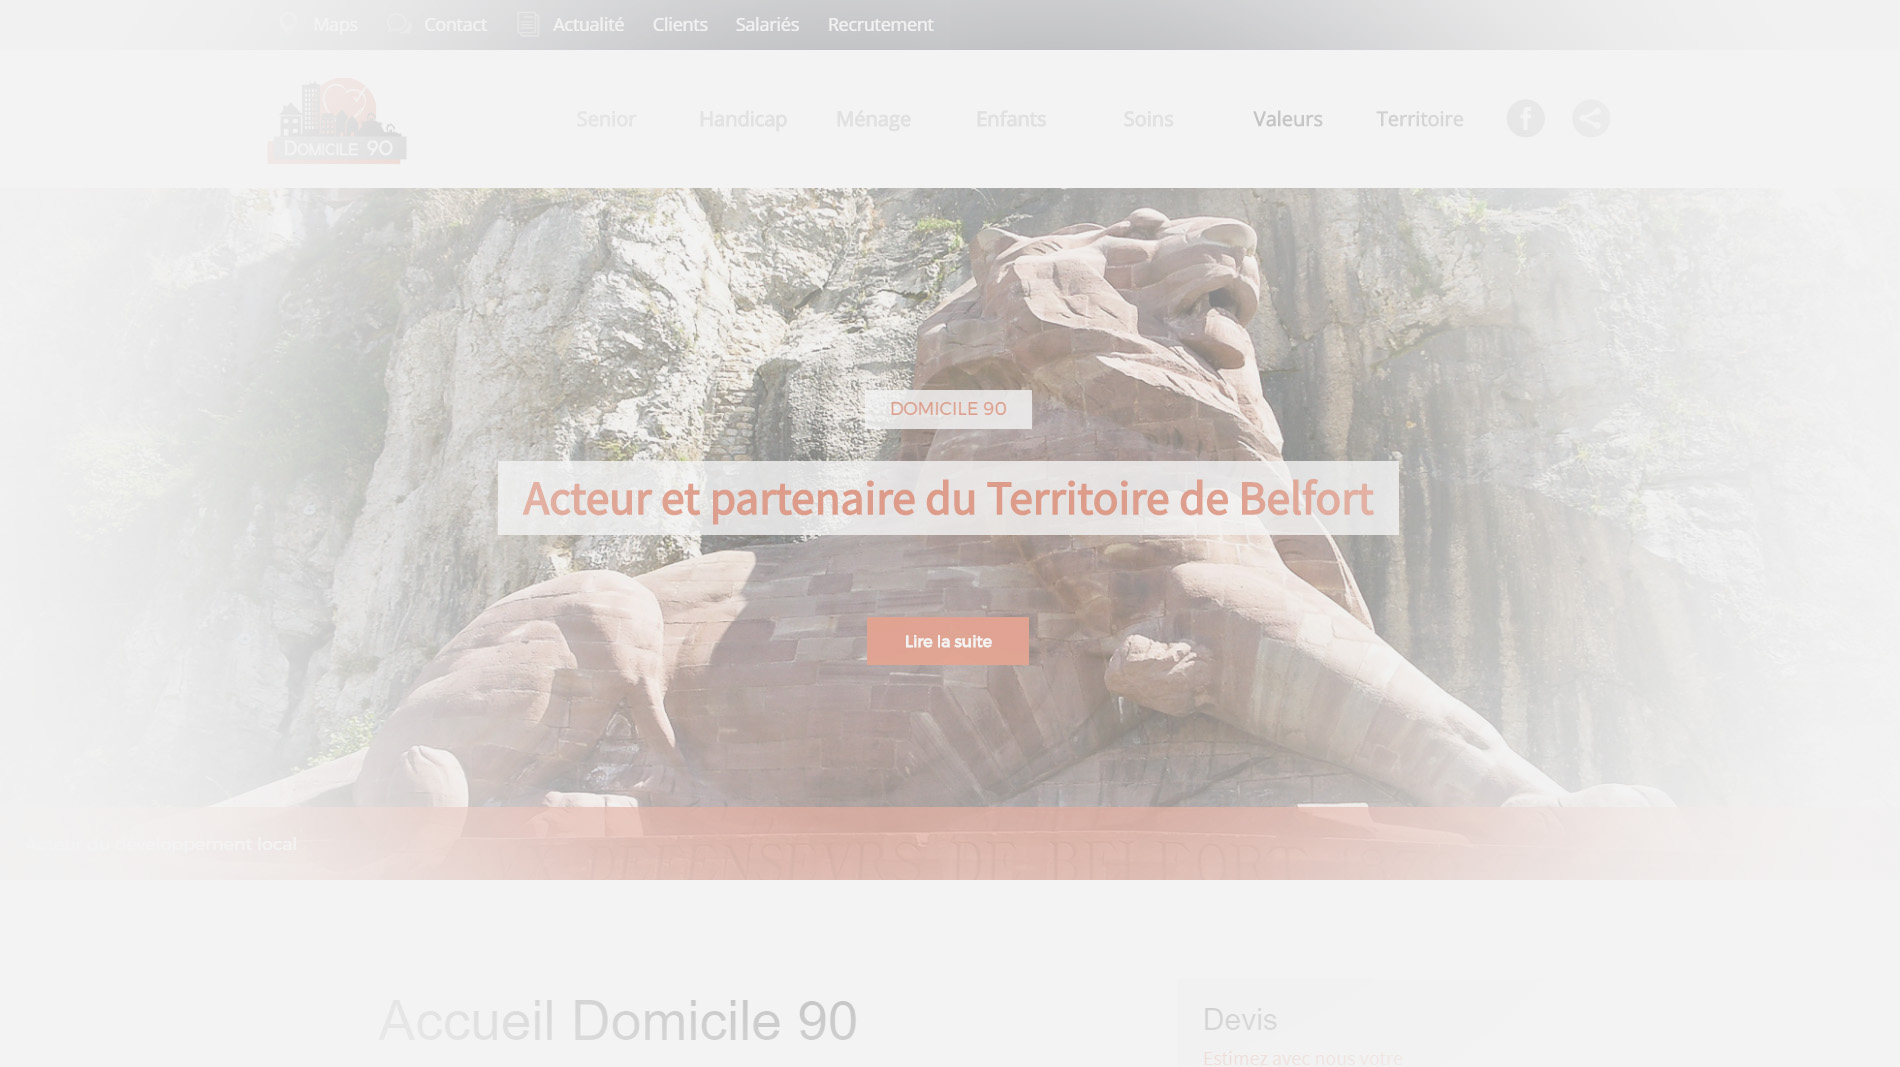
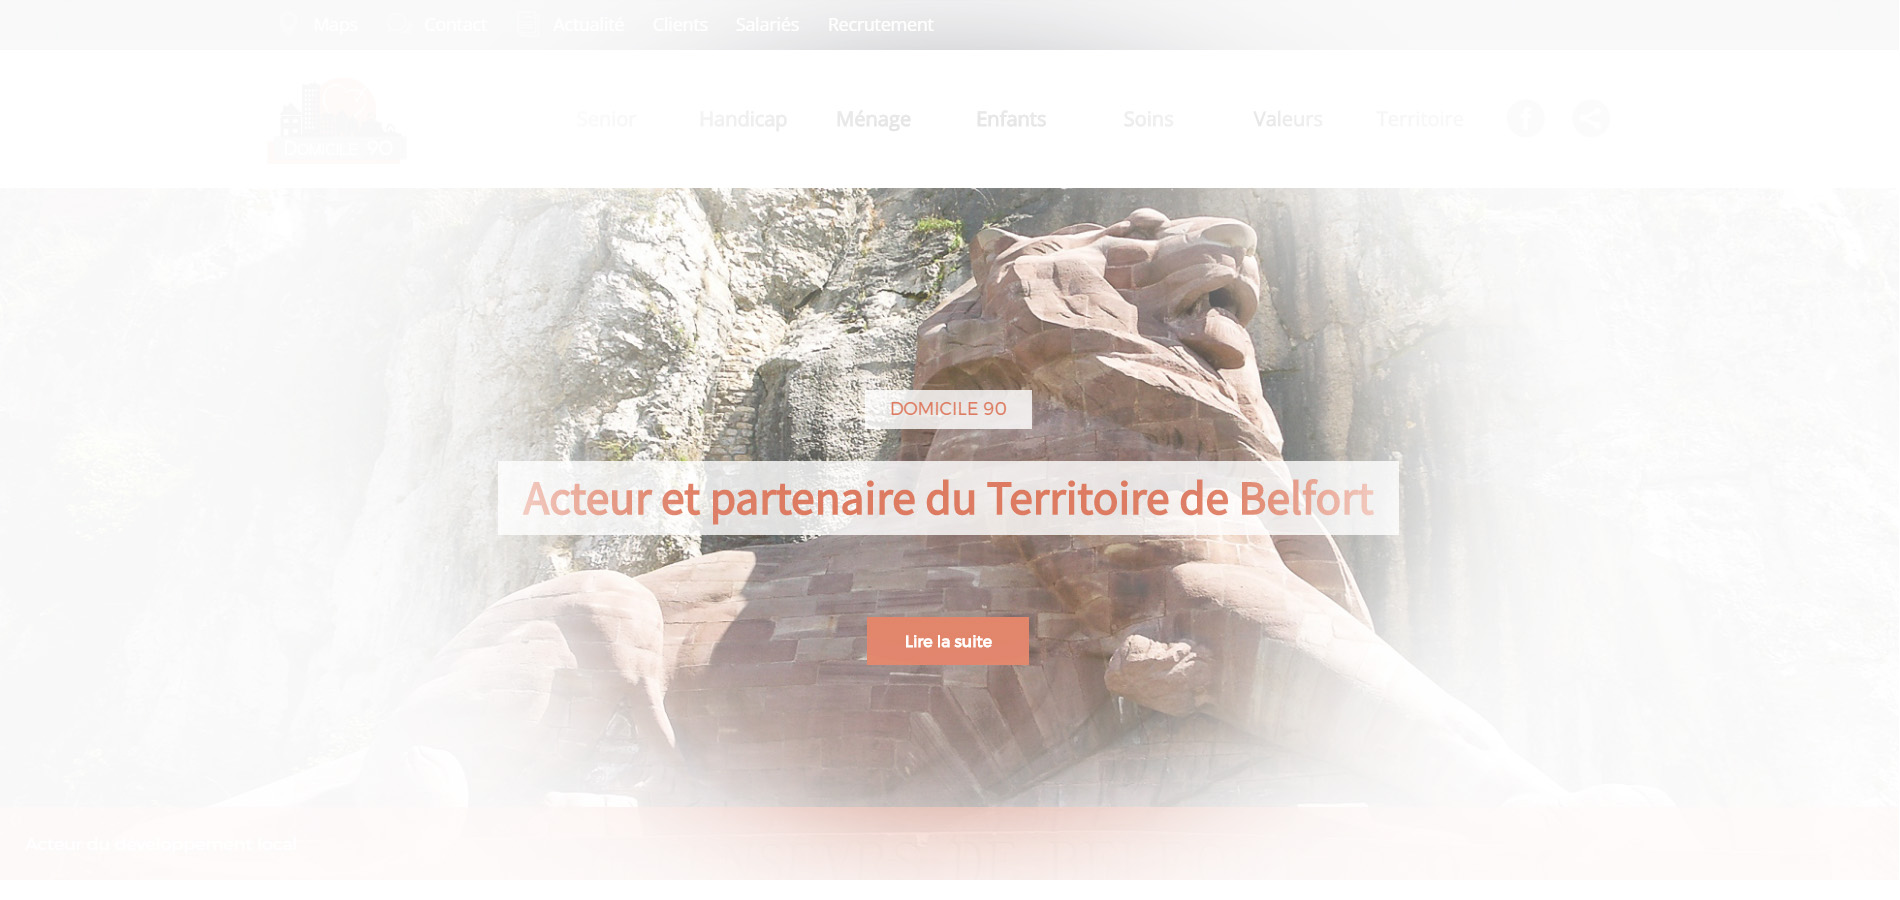
Slideshow optimization

diff --git a/prj/scss/style.min.css b/prj/scss/style.min.css
@@ -1,1 +1,1 @@
-@font-face{font-family:Gilroy;src:url("../../fonts/Gilroy.otf") format("opentype");}@font-face{font-family:GilroyBold;font-weight:bold;src:url("../../fonts/GilroyBold.otf") format("opentype");}body,html{height:100%;background:#110101;font-family:'Roboto',sans-serif;overflow:hidden;}.slideshow{position:absolute;z-index:1;top:0;left:0;width:100vw;height:100vh;overflow:hidden;}.slideshow .slider{width:100vw;height:100vw;z-index:2;}.slideshow .slider *{outline:none;}.slideshow .slider .item{height:100vh;width:100vw;position:relative;overflow:hidden;border:none;}.slideshow .slider .item .text{display:none;}.slideshow .slider .item img{min-width:101%;min-height:101%;position:absolute;top:50%;left:50%;transform:translate(-50%,-50%);}.slideshow .slick-dots{position:fixed;z-index:100;width:40px;height:auto;bottom:auto;top:50%;top:40px;right:0;transform:translateY(-50%);left:auto;color:#fff;display:block;margin:12px;}.slideshow .slick-dots li{display:block;width:100%;height:auto;}.slideshow .slick-dots li button{position:relative;width:20px;height:15px;text-align:center;}.slideshow .slick-dots li button:before{content:'';background:-webkit-linear-gradient(left top,#517bfc,#8728fe);color:#fff;height:5px !important;width:20px;border-radius:5px !important;position:absolute;top:50%;right:0;left:auto;transform:translateY(-50%);transition:all .3s ease-in-out;opacity:.6;}.slideshow .slick-dots li.slick-active button:before{width:40px;opacity:1;}.slideshow.slideshow-right{left:0;z-index:1;width:50vw;pointer-events:none;}.slideshow.slideshow-right .slider{left:0;position:absolute;}.slideshow-text{font-size:60px;width:100vw;font-family:"Gilroy",Roboto,Arial,sans-serif;font-weight:100;pointer-events:none;text-transform:uppercase;letter-spacing:14px;line-height:.8;position:fixed;z-index:99;height:unset;bottom:auto;top:0;margin:0 !important;padding:0 !important;margin-left:24px !important;text-align:start;}@media screen and (min-width:780px){.slideshow-text{margin-top:-24px !important;}}@media(max-width:780px){.slideshow-text{font-size:24px;font-family:"GilroyBold",Roboto,Arial,sans-serif;}}p{background:-webkit-linear-gradient(left top,#517bfc,#8728fe);-webkit-background-clip:text;-webkit-text-fill-color:transparent;}@media screen and (max-width:720px){img{filter:blur(5px);}}
+@font-face{font-family:Gilroy;src:url("../../fonts/Gilroy.otf") format("opentype");}@font-face{font-family:GilroyBold;font-weight:bold;src:url("../../fonts/GilroyBold.otf") format("opentype");}body,html{height:100%;background:#110101;font-family:'Roboto',sans-serif;overflow:hidden;}.slideshow{position:absolute;z-index:1;top:0;left:0;width:100vw;height:100vh;overflow:hidden;}.slideshow .slider{width:100vw;height:100vw;z-index:2;}.slideshow .slider *{outline:none;}.slideshow .slider .item{height:100vh;width:100vw;position:relative;overflow:hidden;border:none;}.slideshow .slider .item .text{display:none;}.slideshow .slider .item img{min-width:101%;min-height:101%;position:absolute;top:50%;left:50%;transform:translate(-50%,-50%);}.slideshow .slick-dots{position:fixed;z-index:100;width:40px;height:auto;bottom:auto;top:50%;top:40px;right:0;transform:translateY(-50%);left:auto;color:#fff;display:block;margin:12px;}.slideshow .slick-dots li{display:block;width:100%;height:auto;}.slideshow .slick-dots li button{position:relative;width:20px;height:15px;text-align:center;}.slideshow .slick-dots li button:before{content:'';background:-webkit-linear-gradient(left top,#517bfc,#8728fe);color:#fff;height:5px !important;width:20px;border-radius:5px !important;position:absolute;top:50%;right:0;left:auto;transform:translateY(-50%);transition:all .3s ease-in-out;opacity:.6;}.slideshow .slick-dots li.slick-active button:before{width:40px;opacity:1;}.slideshow.slideshow-right{left:0;z-index:1;width:50vw;pointer-events:none;}.slideshow.slideshow-right .slider{left:0;position:absolute;}.slideshow-text{font-size:60px;width:100vw;font-family:"Gilroy",Roboto,Arial,sans-serif;font-weight:100;pointer-events:none;text-transform:uppercase;letter-spacing:14px;line-height:.8;position:fixed;z-index:99;height:unset;bottom:auto;top:-8px;margin:0 !important;padding:0 !important;margin-left:24px !important;text-align:start;}@media screen and (min-width:780px){.slideshow-text{margin-top:-24px !important;}}@media(max-width:780px){.slideshow-text{top:2px;font-size:22px;font-family:"GilroyBold",Roboto,Arial,sans-serif;}}@media(max-width:320px){.slideshow-text{top:8px;font-size:18px;}}p{background:-webkit-linear-gradient(left top,#517bfc,#8728fe);-webkit-background-clip:text;-webkit-text-fill-color:transparent;}@media screen and (max-width:720px){.slideshow .slider .item img{top:20%;left:22.5%;transform:translate(-25%,-25%);}}

diff --git a/prj/scss/style.css b/prj/scss/style.css
@@ -106,7 +106,7 @@ html {
   z-index: 99;
   height: unset;
   bottom: auto;
-  top: 0;
+  top: -8px;
   margin: 0 !important;
   padding: 0 !important;
   margin-left: 24px !important;
@@ -116,8 +116,13 @@ html {
       margin-top: -24px !important; } }
   @media (max-width: 780px) {
     .slideshow-text {
-      font-size: 24px;
+      top: 2px;
+      font-size: 22px;
       font-family: "GilroyBold",Roboto,Arial,sans-serif; } }
+  @media (max-width: 320px) {
+    .slideshow-text {
+      top: 8px;
+      font-size: 18px; } }
 
 p {
   background: -webkit-linear-gradient(left top, #517bfc, #8728fe);
@@ -125,10 +130,8 @@ p {
   -webkit-text-fill-color: transparent; }
 
 @media screen and (max-width: 720px) {
-  img {
-    filter: blur(5px); } }
-
-/*.slick-vertical .slick-slide {
-    background: rgba(255, 255, 255, 0.75);
-}*/
+  .slideshow .slider .item img {
+    top: 20%;
+    left: 22.5%;
+    transform: translate(-25%, -25%); } }
 

diff --git a/prj/scss/style.scss b/prj/scss/style.scss
@@ -137,7 +137,7 @@ html {
     z-index: 99;
     height: unset;
     bottom: auto;
-    top: 0;
+    top: -8px;
     margin: 0 !important;
     padding: 0 !important;
     margin-left: 24px !important;
@@ -148,8 +148,13 @@ html {
     }
 
     @media (max-width: 780px) {
-        font-size: 24px;
+        top: 2px;
+        font-size: 22px;
         font-family: "GilroyBold",Roboto,Arial,sans-serif;
+    }
+    @media (max-width: 320px) {
+            top: 8px;
+            font-size: 18px;
     }
 }
 
@@ -160,11 +165,9 @@ p {
 }
 
 @media screen and (max-width: 720px) {
-    img {
-        filter: blur(5px);
+    .slideshow .slider .item img {
+        top: 20%;
+        left: 22.5%;
+        transform: translate(-25%,-25%);
     }
 }
-
-/*.slick-vertical .slick-slide {
-    background: rgba(255, 255, 255, 0.75);
-}*/
